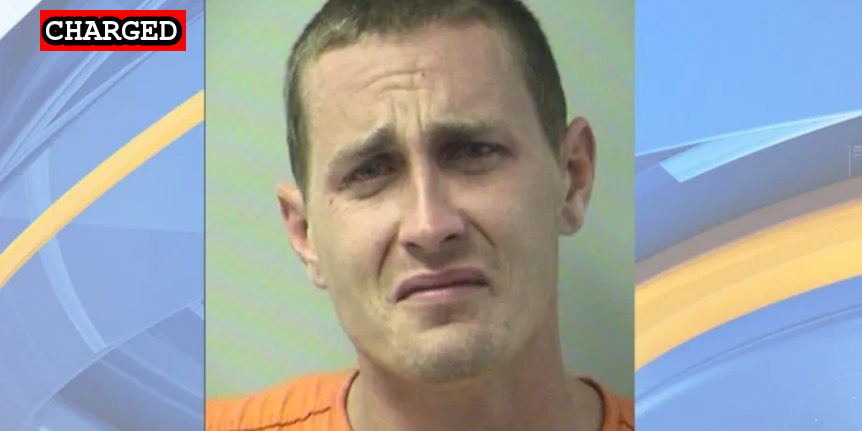
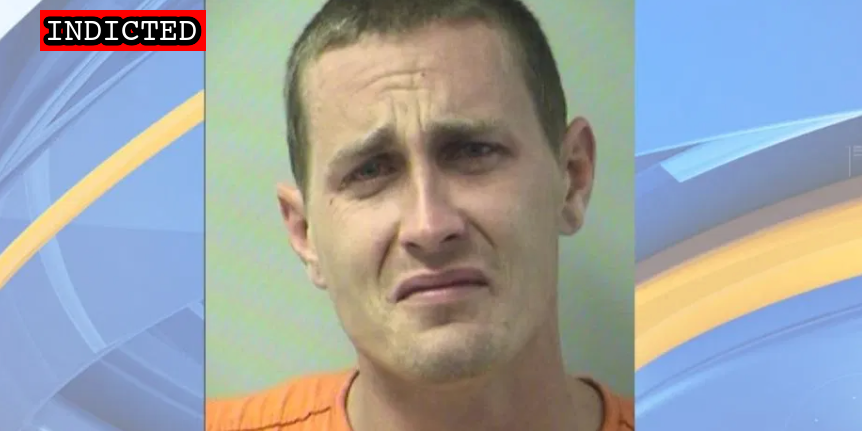
imported updates - indictments and pleas

Changed region(s): [[0.0302, 0.0, 0.2413, 0.1206]]

diff --git a/docs/_suspects/richard-crosby.md b/docs/_suspects/richard-crosby.md
@@ -3,13 +3,14 @@ name: Richard Crosby
 lastName: Crosby
 aka:
 residence: Connecticut
-status: Charged
+status: Indicted
 date: 2021-05-28
 charged: 2021-05-28
-indicted:
+indicted: 2021-07-09
 convicted: 
-sentenced: 
+sentenced:
 dismissed: 
+deceased:
 age: 25
 occupation:
 affiliations:
@@ -32,3 +33,4 @@ charges:
 - [News Report](https://www.courant.com/news/connecticut/hc-news-crosby-capitol-riot-20210603-20210603-5alcjgmuafddvavo667mmm4epe-story.html)
 - [Complaint](https://www.justice.gov/usao-dc/case-multi-defendant/file/1401781/download)
 - [Statement of Facts](https://www.justice.gov/usao-dc/case-multi-defendant/file/1401786/download)
+- [Indictment](https://www.justice.gov/usao-dc/case-multi-defendant/file/1412501/download)

diff --git a/docs/_suspects/andrew-griswold.md b/docs/_suspects/andrew-griswold.md
@@ -3,13 +3,14 @@ name: Andrew Griswold
 lastName: Griswold
 aka:
 residence: Florida
-status: Charged
+status: Indicted
 date: 2021-03-05
 charged: 2021-03-05
-indicted:
+indicted: 2021-07-09
 convicted: 
-sentenced: 
+sentenced:
 dismissed: 
+deceased:
 age: 28
 occupation:
 affiliations:
@@ -31,3 +32,4 @@ charges:
 ---
 - [News Report](https://www.wkrg.com/news/niceville-man-arrested-in-connection-to-u-s-capitol-riot/)
 - [Statement of Facts](https://extremism.gwu.edu/sites/g/files/zaxdzs2191/f/Andrew%20Griswold%20Statement%20of%20Facts.pdf)
+- [Indictment](https://www.justice.gov/usao-dc/case-multi-defendant/file/1412506/download)

diff --git a/docs/_suspects/danielle-doyle.md b/docs/_suspects/danielle-doyle.md
@@ -7,9 +7,10 @@ status: Charged
 date: 2021-02-24
 charged: 2021-02-24
 indicted:
-convicted: 
-sentenced: 
+convicted: 2021-07-14
+sentenced:
 dismissed: 
+deceased:
 age:
 occupation:
 affiliations:
@@ -33,3 +34,4 @@ charges:
 - [Complaint](https://extremism.gwu.edu/sites/g/files/zaxdzs2191/f/Danielle%20Nicole%20Doyle%20Criminal%20Complaint.pdf)
 - [Statement of Facts](https://www.justice.gov/usao-dc/case-multi-defendant/file/1378606/download)
 - [Information](https://www.justice.gov/usao-dc/case-multi-defendant/file/1392951/download)
+- [Plea Agreement](https://www.justice.gov/usao-dc/case-multi-defendant/file/1412406/download)

diff --git a/docs/_suspects/erik-rau.md b/docs/_suspects/erik-rau.md
@@ -30,5 +30,6 @@ layout: suspect
 published: true
 charges:
 ---
-
 - [Complaint](https://extremism.gwu.edu/sites/g/files/zaxdzs2191/f/Erik%20Rau%20Criminal%20Complaint.pdf)
+- [Statement of Facts](https://www.justice.gov/usao-dc/case-multi-defendant/file/1412526/download)
+- [Information](https://www.justice.gov/usao-dc/case-multi-defendant/file/1412531/download)
